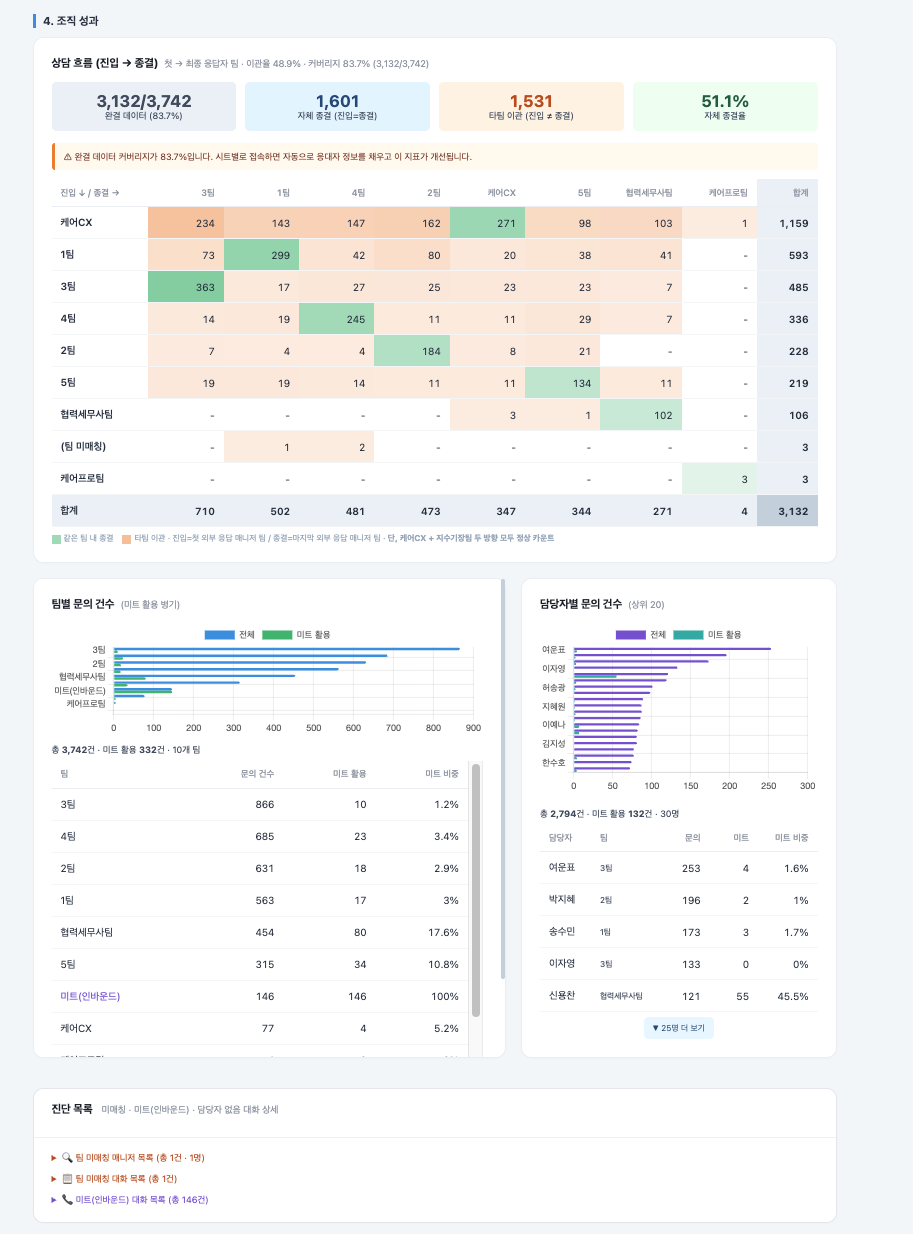
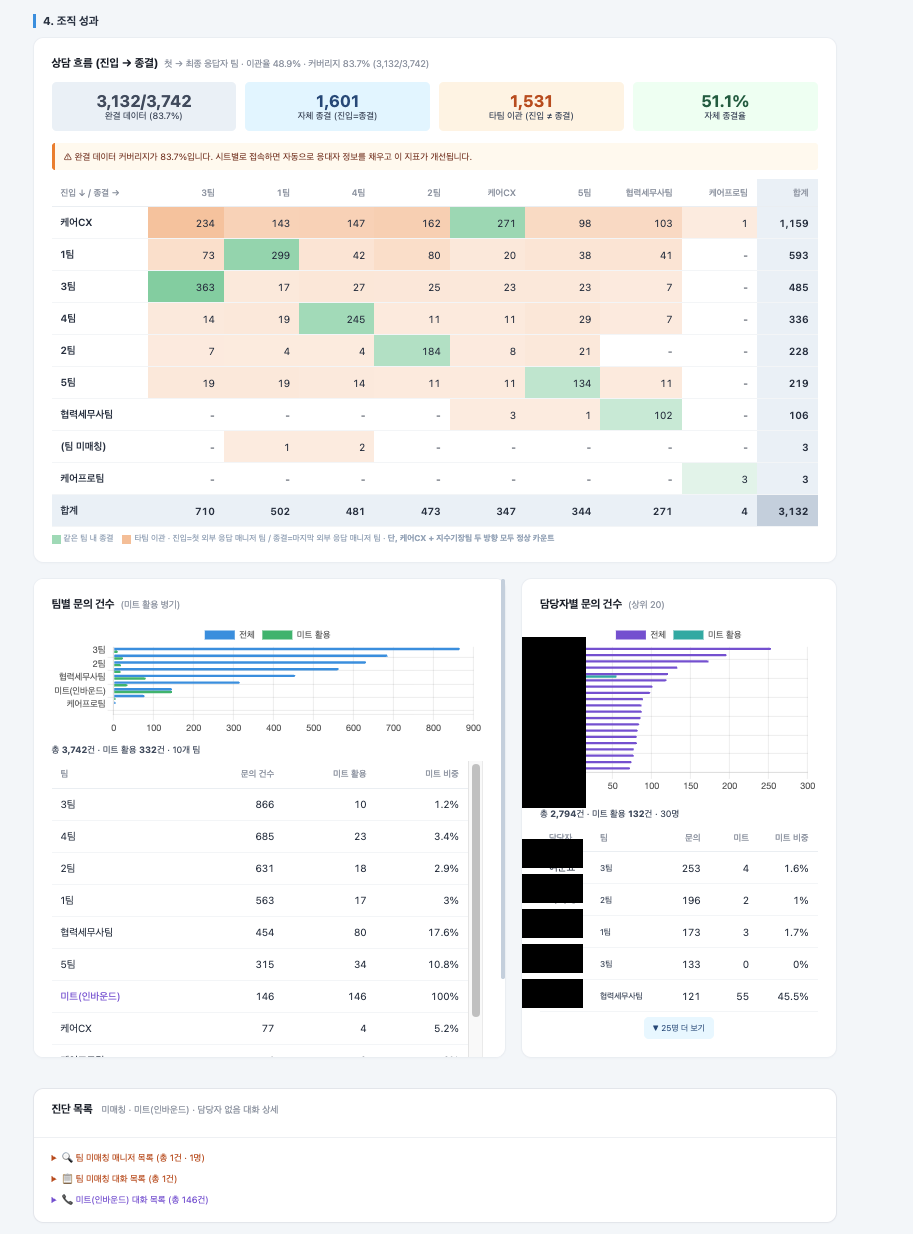
security(portfolio): mask internal employee names in CX dashboard org-flow screenshot
조직 대시보드 스크린샷의 담당자별 문의 건수 차트·표에 노출되던 실제 직원 이름을 검은색 박스로 마스킹 처리하고, README에 마스킹 안내 문구 추가.

Changed region(s): [[0.552, 0.4927, 0.644, 0.8314]]

diff --git a/projects/cx-integrated-dashboard/README.md b/projects/cx-integrated-dashboard/README.md
@@ -16,7 +16,8 @@
 
 ![조직 성과 · 상담 흐름 히트맵](../../assets/screenshots/cx-integrated-dashboard-org-flow.png)
 
-> 조직 성과 탭 · 상담 흐름 (진입 → 종결) 히트맵 · 자체 종결율 51.1% · 타팀 이관 1,531건 · 팀별·담당자별 문의 건수(미트 활용 병기) · 진단 목록(팀 미매칭·미트 인바운드·담당자 없음)
+> 조직 성과 탭 · 상담 흐름 (최초 응대 → 최종 응대) 히트맵 · 자체 종결율 51.1% · 타팀 이관 1,531건 · 팀별·담당자별 문의 건수(미트 활용 병기) · 진단 목록(팀 미매칭·미트 인바운드·담당자 없음)
+> · 담당자 실명은 마스킹 처리
 
 ![해지 관련 3단 카드 + 매칭 분석](../../assets/screenshots/cx-integrated-dashboard-cancel.png)
 
@@ -98,3 +99,4 @@ Google Apps Script (Web App · V8) · Channel Talk Open API v5 · Google Sheets 
 - 매니저-팀 초기 세팅 (`setupManagerTeamMappingManual`)의 실제 인원·이메일 리스트는 마스킹 (`<MGR_N>` · `<TEAM_A/B/CX/...>` 형태)
 - 매니저 오버라이드 맵(`MGR_TEAM_OVERRIDES`)도 마스킹
 - 원문 대화·개인정보는 저장소에 포함하지 않고, 대시보드는 집계·시각화 지표만 표시
+- 스크린샷 중 담당자 실명이 노출되는 영역(조직 대시보드의 담당자별 문의 건수 차트·표)은 마스킹 처리
